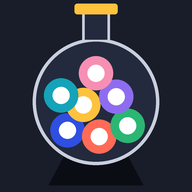
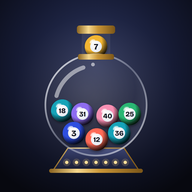
앱 아이콘을 고급스러운 디자인으로 교체
짙은 남색 배경, 금색 장식, 유리 추첨기와 광택 있는 공. 헤더 로고도 같은 아이콘으로 통일.

diff --git a/icons/icon-source.html b/icons/icon-source.html
@@ -1,0 +1,82 @@
+<!doctype html><html><head><meta charset="utf-8">
+<link rel="stylesheet" href="https://fonts.googleapis.com/css2?family=Bricolage+Grotesque:opsz,wght@12..96,800&display=swap">
+<style>html,body{margin:0;background:#000} svg{display:block}</style></head><body>
+<svg width="1024" height="1024" viewBox="0 0 1024 1024" xmlns="http://www.w3.org/2000/svg">
+<defs>
+  <radialGradient id="bg" cx="50%" cy="34%" r="75%"><stop offset="0" stop-color="#2E3760"/><stop offset=".55" stop-color="#151a33"/><stop offset="1" stop-color="#07080F"/></radialGradient>
+  <radialGradient id="glow" cx="50%" cy="50%" r="50%"><stop offset="0" stop-color="#FFD98A" stop-opacity=".10"/><stop offset="1" stop-color="#FFD98A" stop-opacity="0"/></radialGradient>
+  <linearGradient id="gold" x1="0" y1="0" x2="0" y2="1"><stop offset="0" stop-color="#FBE6A6"/><stop offset=".45" stop-color="#D9A848"/><stop offset="1" stop-color="#8A6320"/></linearGradient>
+  <linearGradient id="goldH" x1="0" y1="0" x2="1" y2="0"><stop offset="0" stop-color="#8A6320"/><stop offset=".3" stop-color="#F5D78C"/><stop offset=".55" stop-color="#C99536"/><stop offset="1" stop-color="#7A5518"/></linearGradient>
+  <linearGradient id="ring" x1="0" y1="0" x2="1" y2="1"><stop offset="0" stop-color="#FFFFFF" stop-opacity=".9"/><stop offset=".5" stop-color="#C9CFE0" stop-opacity=".35"/><stop offset="1" stop-color="#FFFFFF" stop-opacity=".7"/></linearGradient>
+  <radialGradient id="glass" cx="40%" cy="35%" r="70%"><stop offset="0" stop-color="#fff" stop-opacity=".07"/><stop offset=".7" stop-color="#fff" stop-opacity=".02"/><stop offset="1" stop-color="#9FB0FF" stop-opacity=".16"/></radialGradient>
+  <linearGradient id="base" x1="0" y1="0" x2="0" y2="1"><stop offset="0" stop-color="#3A4270"/><stop offset="1" stop-color="#161A30"/></linearGradient>
+  <radialGradient id="disc" cx="40%" cy="35%" r="70%"><stop offset="0" stop-color="#fff"/><stop offset="1" stop-color="#E4E7EF"/></radialGradient>
+  <filter id="sh" x="-30%" y="-30%" width="160%" height="160%"><feDropShadow dx="0" dy="6" stdDeviation="7" flood-color="#000" flood-opacity=".45"/></filter>
+  <clipPath id="globeClip"><circle cx="512" cy="560" r="264"/></clipPath>
+  <radialGradient id="b-blue" cx="34%" cy="28%" r="75%">
+      <stop offset="0" stop-color="#fff" stop-opacity=".95"/><stop offset=".18" stop-color="#2F4FE0" stop-opacity=".75"/>
+      <stop offset=".55" stop-color="#2F4FE0"/><stop offset="1" stop-color="#000" stop-opacity=".9"/></radialGradient>
+      <radialGradient id="c-blue" cx="50%" cy="50%" r="50%"><stop offset=".6" stop-color="#2F4FE0"/><stop offset="1" stop-color="#2F4FE0" stop-opacity="0"/></radialGradient><radialGradient id="b-coral" cx="34%" cy="28%" r="75%">
+      <stop offset="0" stop-color="#fff" stop-opacity=".95"/><stop offset=".18" stop-color="#FF6B57" stop-opacity=".75"/>
+      <stop offset=".55" stop-color="#FF6B57"/><stop offset="1" stop-color="#000" stop-opacity=".9"/></radialGradient>
+      <radialGradient id="c-coral" cx="50%" cy="50%" r="50%"><stop offset=".6" stop-color="#FF6B57"/><stop offset="1" stop-color="#FF6B57" stop-opacity="0"/></radialGradient><radialGradient id="b-green" cx="34%" cy="28%" r="75%">
+      <stop offset="0" stop-color="#fff" stop-opacity=".95"/><stop offset=".18" stop-color="#2BB673" stop-opacity=".75"/>
+      <stop offset=".55" stop-color="#2BB673"/><stop offset="1" stop-color="#000" stop-opacity=".9"/></radialGradient>
+      <radialGradient id="c-green" cx="50%" cy="50%" r="50%"><stop offset=".6" stop-color="#2BB673"/><stop offset="1" stop-color="#2BB673" stop-opacity="0"/></radialGradient><radialGradient id="b-purple" cx="34%" cy="28%" r="75%">
+      <stop offset="0" stop-color="#fff" stop-opacity=".95"/><stop offset=".18" stop-color="#8E6CF0" stop-opacity=".75"/>
+      <stop offset=".55" stop-color="#8E6CF0"/><stop offset="1" stop-color="#000" stop-opacity=".9"/></radialGradient>
+      <radialGradient id="c-purple" cx="50%" cy="50%" r="50%"><stop offset=".6" stop-color="#8E6CF0"/><stop offset="1" stop-color="#8E6CF0" stop-opacity="0"/></radialGradient><radialGradient id="b-teal" cx="34%" cy="28%" r="75%">
+      <stop offset="0" stop-color="#fff" stop-opacity=".95"/><stop offset=".18" stop-color="#14A3B8" stop-opacity=".75"/>
+      <stop offset=".55" stop-color="#14A3B8"/><stop offset="1" stop-color="#000" stop-opacity=".9"/></radialGradient>
+      <radialGradient id="c-teal" cx="50%" cy="50%" r="50%"><stop offset=".6" stop-color="#14A3B8"/><stop offset="1" stop-color="#14A3B8" stop-opacity="0"/></radialGradient><radialGradient id="b-pink" cx="34%" cy="28%" r="75%">
+      <stop offset="0" stop-color="#fff" stop-opacity=".95"/><stop offset=".18" stop-color="#F78FB3" stop-opacity=".75"/>
+      <stop offset=".55" stop-color="#F78FB3"/><stop offset="1" stop-color="#000" stop-opacity=".9"/></radialGradient>
+      <radialGradient id="c-pink" cx="50%" cy="50%" r="50%"><stop offset=".6" stop-color="#F78FB3"/><stop offset="1" stop-color="#F78FB3" stop-opacity="0"/></radialGradient><radialGradient id="b-gold" cx="34%" cy="28%" r="75%">
+      <stop offset="0" stop-color="#fff" stop-opacity=".95"/><stop offset=".18" stop-color="#F2B533" stop-opacity=".75"/>
+      <stop offset=".55" stop-color="#F2B533"/><stop offset="1" stop-color="#000" stop-opacity=".9"/></radialGradient>
+      <radialGradient id="c-gold" cx="50%" cy="50%" r="50%"><stop offset=".6" stop-color="#F2B533"/><stop offset="1" stop-color="#F2B533" stop-opacity="0"/></radialGradient>
+</defs>
+<rect width="1024" height="1024" fill="url(#bg)"/>
+<circle cx="512" cy="520" r="440" fill="url(#glow)"/>
+<!-- stand -->
+<path d="M362 790 L662 790 L742 910 L282 910 Z" fill="url(#base)" stroke="url(#goldH)" stroke-width="6" stroke-linejoin="round"/>
+<rect x="262" y="900" width="500" height="22" rx="11" fill="url(#goldH)"/>
+<circle cx="356" cy="866" r="9" fill="#FFE3A0"/><circle cx="356" cy="866" r="20" fill="#FFD27A" opacity=".18"/><circle cx="408" cy="866" r="9" fill="#FFE3A0"/><circle cx="408" cy="866" r="20" fill="#FFD27A" opacity=".18"/><circle cx="460" cy="866" r="9" fill="#FFE3A0"/><circle cx="460" cy="866" r="20" fill="#FFD27A" opacity=".18"/><circle cx="512" cy="866" r="9" fill="#FFE3A0"/><circle cx="512" cy="866" r="20" fill="#FFD27A" opacity=".18"/><circle cx="564" cy="866" r="9" fill="#FFE3A0"/><circle cx="564" cy="866" r="20" fill="#FFD27A" opacity=".18"/><circle cx="616" cy="866" r="9" fill="#FFE3A0"/><circle cx="616" cy="866" r="20" fill="#FFD27A" opacity=".18"/><circle cx="668" cy="866" r="9" fill="#FFE3A0"/><circle cx="668" cy="866" r="20" fill="#FFD27A" opacity=".18"/>
+<!-- neck -->
+<rect x="436" y="170" width="152" height="134" fill="#fff" opacity=".07"/>
+<g filter="url(#sh)"><circle cx="512" cy="248" r="60" fill="#F2B533"/><circle cx="512" cy="248" r="60" fill="url(#b-gold)"/></g>
+      <circle cx="512" cy="248" r="31.200000000000003" fill="url(#disc)"/>
+      <text x="512" y="263.984" font-size="44.4" text-anchor="middle" font-family="Bricolage Grotesque" font-weight="800" fill="#141722">7</text>
+      <ellipse cx="492.8" cy="221.0" rx="16.8" ry="8.4" transform="rotate(-30 492.8 221.0)" fill="#fff" opacity=".55"/>
+<line x1="436" y1="170" x2="436" y2="304" stroke="url(#ring)" stroke-width="7"/>
+<line x1="588" y1="170" x2="588" y2="304" stroke="url(#ring)" stroke-width="7"/>
+<rect x="410" y="136" width="204" height="44" rx="14" fill="url(#goldH)"/>
+<!-- globe -->
+<circle cx="512" cy="560" r="270" fill="url(#glass)"/>
+<g clip-path="url(#globeClip)"><g filter="url(#sh)"><circle cx="332" cy="590" r="60" fill="#14A3B8"/><circle cx="332" cy="590" r="60" fill="url(#b-teal)"/></g>
+      <circle cx="332" cy="590" r="31.200000000000003" fill="url(#disc)"/>
+      <text x="332" y="603.392" font-size="37.2" text-anchor="middle" font-family="Bricolage Grotesque" font-weight="800" fill="#141722">18</text>
+      <ellipse cx="312.8" cy="563.0" rx="16.8" ry="8.4" transform="rotate(-30 312.8 563.0)" fill="#fff" opacity=".55"/><g filter="url(#sh)"><circle cx="440" cy="608" r="60" fill="#8E6CF0"/><circle cx="440" cy="608" r="60" fill="url(#b-purple)"/></g>
+      <circle cx="440" cy="608" r="31.200000000000003" fill="url(#disc)"/>
+      <text x="440" y="621.392" font-size="37.2" text-anchor="middle" font-family="Bricolage Grotesque" font-weight="800" fill="#141722">31</text>
+      <ellipse cx="420.8" cy="581.0" rx="16.8" ry="8.4" transform="rotate(-30 420.8 581.0)" fill="#fff" opacity=".55"/><g filter="url(#sh)"><circle cx="574" cy="618" r="60" fill="#F78FB3"/><circle cx="574" cy="618" r="60" fill="url(#b-pink)"/></g>
+      <circle cx="574" cy="618" r="31.200000000000003" fill="url(#disc)"/>
+      <text x="574" y="631.392" font-size="37.2" text-anchor="middle" font-family="Bricolage Grotesque" font-weight="800" fill="#141722">40</text>
+      <ellipse cx="554.8" cy="591.0" rx="16.8" ry="8.4" transform="rotate(-30 554.8 591.0)" fill="#fff" opacity=".55"/><g filter="url(#sh)"><circle cx="692" cy="608" r="60" fill="#2BB673"/><circle cx="692" cy="608" r="60" fill="url(#b-green)"/></g>
+      <circle cx="692" cy="608" r="31.200000000000003" fill="url(#disc)"/>
+      <text x="692" y="621.392" font-size="37.2" text-anchor="middle" font-family="Bricolage Grotesque" font-weight="800" fill="#141722">25</text>
+      <ellipse cx="672.8" cy="581.0" rx="16.8" ry="8.4" transform="rotate(-30 672.8 581.0)" fill="#fff" opacity=".55"/><g filter="url(#sh)"><circle cx="394" cy="710" r="60" fill="#2F4FE0"/><circle cx="394" cy="710" r="60" fill="url(#b-blue)"/></g>
+      <circle cx="394" cy="710" r="31.200000000000003" fill="url(#disc)"/>
+      <text x="394" y="725.984" font-size="44.4" text-anchor="middle" font-family="Bricolage Grotesque" font-weight="800" fill="#141722">3</text>
+      <ellipse cx="374.8" cy="683.0" rx="16.8" ry="8.4" transform="rotate(-30 374.8 683.0)" fill="#fff" opacity=".55"/><g filter="url(#sh)"><circle cx="516" cy="744" r="60" fill="#FF6B57"/><circle cx="516" cy="744" r="60" fill="url(#b-coral)"/></g>
+      <circle cx="516" cy="744" r="31.200000000000003" fill="url(#disc)"/>
+      <text x="516" y="757.392" font-size="37.2" text-anchor="middle" font-family="Bricolage Grotesque" font-weight="800" fill="#141722">12</text>
+      <ellipse cx="496.8" cy="717.0" rx="16.8" ry="8.4" transform="rotate(-30 496.8 717.0)" fill="#fff" opacity=".55"/><g filter="url(#sh)"><circle cx="636" cy="710" r="60" fill="#14A3B8"/><circle cx="636" cy="710" r="60" fill="url(#b-teal)"/></g>
+      <circle cx="636" cy="710" r="31.200000000000003" fill="url(#disc)"/>
+      <text x="636" y="723.392" font-size="37.2" text-anchor="middle" font-family="Bricolage Grotesque" font-weight="800" fill="#141722">36</text>
+      <ellipse cx="616.8" cy="683.0" rx="16.8" ry="8.4" transform="rotate(-30 616.8 683.0)" fill="#fff" opacity=".55"/></g>
+<circle cx="512" cy="560" r="270" fill="none" stroke="url(#ring)" stroke-width="9"/>
+<path d="M301.4 511.4 A221.39999999999998 221.39999999999998 0 0 1 444.5 360.2" fill="none" stroke="#fff" stroke-opacity=".5" stroke-width="22" stroke-linecap="round"/>
+<circle cx="495.8" cy="344.0" r="10" fill="#fff" opacity=".55"/>
+<rect x="416" y="288" width="192" height="30" rx="10" fill="url(#goldH)"/>
+</svg></body></html>

diff --git a/index.html b/index.html
@@ -51,7 +51,7 @@ button,input,textarea{font:inherit;color:inherit}
 /* header */
 .top{display:flex;align-items:center;justify-content:space-between;gap:16px;padding-block:18px}
 .brand{display:flex;align-items:center;gap:10px;min-width:0}
-.brand svg{flex:none}
+.brand-icon{flex:none;border-radius:10px;box-shadow:0 2px 6px rgba(0,0,0,.25)}
 .brand-name{font-family:var(--f-display);font-size:22px;letter-spacing:.01em;line-height:1}
 .brand-tag{font-size:12px;color:var(--muted);letter-spacing:.04em}
 .icon-btn{display:inline-flex;align-items:center;gap:8px;border:1px solid var(--line);background:var(--surface);border-radius:999px;padding:8px 14px;cursor:pointer;font-size:13px;font-weight:500}
@@ -224,15 +224,7 @@ html{-webkit-tap-highlight-color:transparent}
 
   <header class="top">
     <div class="brand">
-      <svg width="34" height="34" viewBox="0 0 34 34" aria-hidden="true">
-        <circle cx="17" cy="17" r="16" fill="#11141D"/>
-        <circle cx="17" cy="17" r="12.5" fill="none" stroke="#FFFFFF" stroke-opacity=".55" stroke-width="1.6"/>
-        <circle cx="12" cy="21" r="4" fill="#2F4FE0"/>
-        <circle cx="20.5" cy="22" r="4" fill="#FF6B57"/>
-        <circle cx="16" cy="14.5" r="4" fill="#FFC23D"/>
-        <circle cx="23" cy="14" r="3.4" fill="#2BB673"/>
-        <circle cx="10.5" cy="13" r="3" fill="#8E6CF0"/>
-      </svg>
+      <img class="brand-icon" src="icons/icon-192.png" width="40" height="40" alt="">
       <div>
         <div class="brand-name">뽑아뽑아 로또볼</div>
         <div class="brand-tag">고민될 땐 뽑아보세요</div>

diff --git a/sw.js b/sw.js
@@ -1,5 +1,5 @@
 // Offline support: the app shell is cached on install, fonts are cached the first time they load.
-const CACHE = 'lottoball-v2';
+const CACHE = 'lottoball-v3';
 const SHELL = [
   './',
   './index.html',
